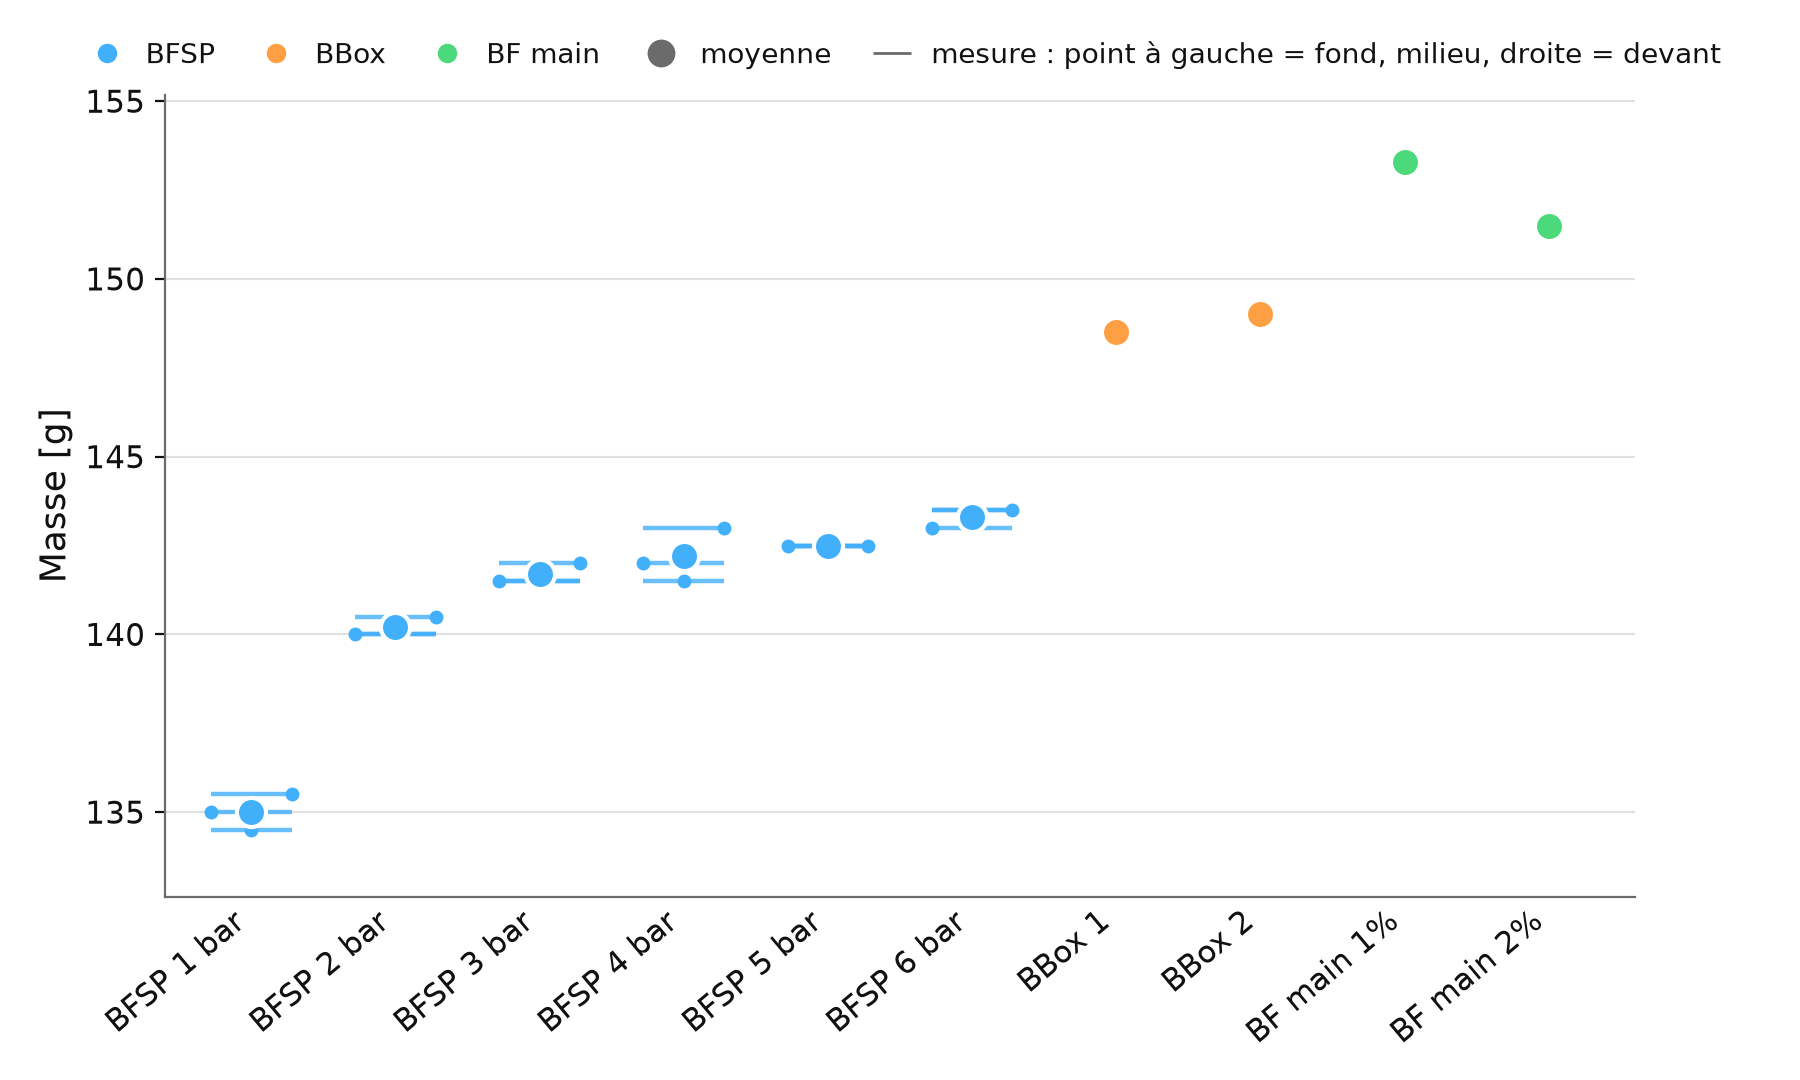
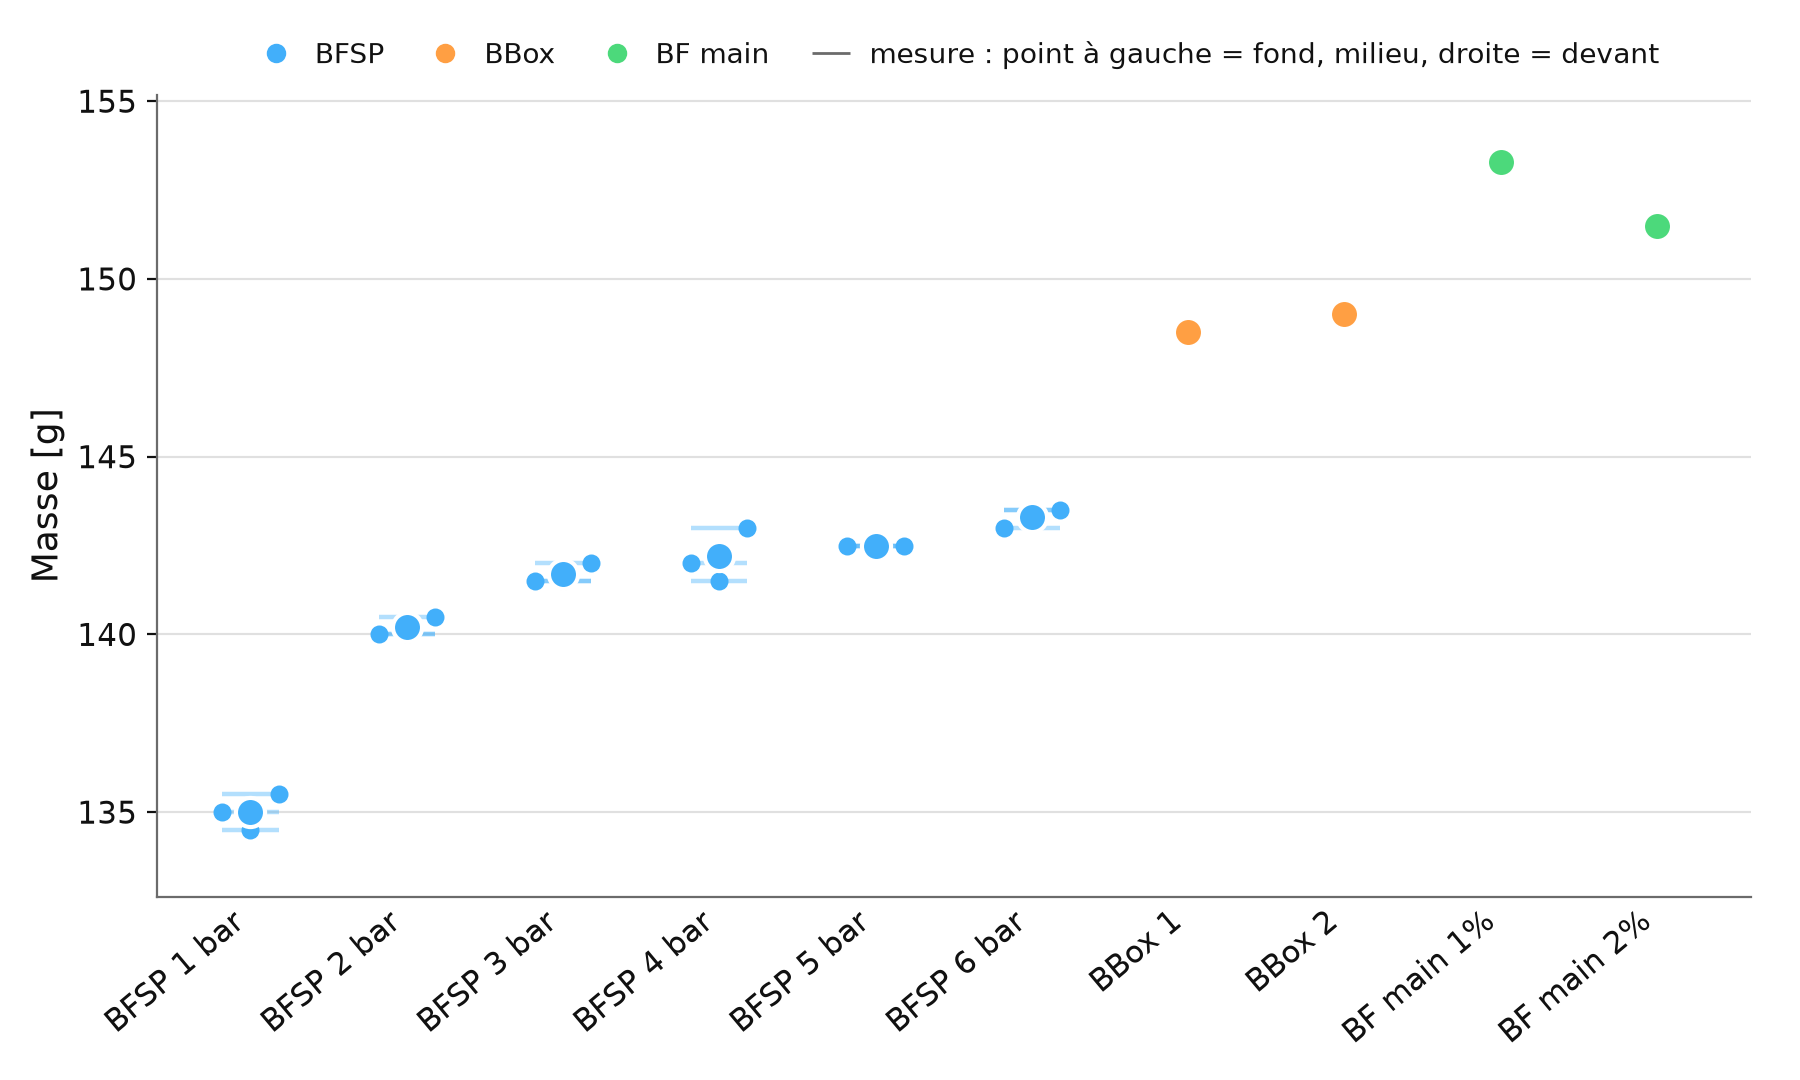
Fainter shorter lines, bigger dots, drop moyenne legend entry

diff --git a/index.html b/index.html
@@ -91,7 +91,7 @@
     <!-- Idealised force-displacement curves for pressures 1-6 bar (scripts/plot_theory.py) -->
     <section class="centered">
       <figure>
-        <img src="figures/courbes_theoriques_dark.png?v=2" alt="Courbes force-déplacement idéalisées pour des pressions de 1 à 6 bar : chaque courbe monte jusqu'à un maximum puis redescend, le maximum augmente avec la pression en se saturant.">
+        <img src="figures/courbes_theoriques_dark.png?v=3" alt="Courbes force-déplacement idéalisées pour des pressions de 1 à 6 bar : chaque courbe monte jusqu'à un maximum puis redescend, le maximum augmente avec la pression en se saturant.">
       </figure>
       <aside class="notes">
         <p class="fact">Courbes qualitatives, pas des mesures : modèle simplifié (montée, pic F_max, adoucissement jusqu'à un palier). F_max augmente avec la pression et sature ; même forme de courbe pour toutes les pressions.</p>
@@ -167,7 +167,7 @@
     <section>
       <section class="centered">
         <figure>
-          <img src="figures/masse_dark.png?v=2" alt="Nuage de points de la masse en grammes par échantillon : BFSP 1 à 6 bar de 135 à 143 g, BBox 1 et 2 vers 149 g, BF main 1 % et 2 % vers 152 g.">
+          <img src="figures/masse_dark.png?v=3" alt="Nuage de points de la masse en grammes par échantillon : BFSP 1 à 6 bar de 135 à 143 g, BBox 1 et 2 vers 149 g, BF main 1 % et 2 % vers 152 g.">
         </figure>
         <aside class="notes"><p>[...]</p></aside>
       </section>
@@ -244,7 +244,7 @@
     <section>
       <section class="centered">
         <figure>
-          <img src="figures/permeabilite_dark.png?v=2" alt="Nuage de points de la perméabilité par échantillon : BFSP de 310 à 193, BBox 180 et 210, BF main 149,5 et 235,5.">
+          <img src="figures/permeabilite_dark.png?v=3" alt="Nuage de points de la perméabilité par échantillon : BFSP de 310 à 193, BBox 180 et 210, BF main 149,5 et 235,5.">
         </figure>
         <aside class="notes"><p>[...]</p></aside>
       </section>
@@ -322,8 +322,8 @@
       <section class="centered">
         <!-- first image fades out when the BFSP-only plot (own y axis) fades in -->
         <div class="r-stack">
-          <img class="fragment fade-out" data-fragment-index="0" src="figures/cisaillement_dark.png?v=2" alt="Nuage de points de la force maximale en newtons par échantillon : BFSP de 673 à 1161, BBox 411 et 431, BF main 1834 et 5226.">
-          <img class="fragment" data-fragment-index="0" src="figures/cisaillement_bfsp_dark.png?v=2" alt="Même nuage de points, limité à BFSP 1 à 6 bar, avec un axe vertical plus resserré.">
+          <img class="fragment fade-out" data-fragment-index="0" src="figures/cisaillement_dark.png?v=3" alt="Nuage de points de la force maximale en newtons par échantillon : BFSP de 673 à 1161, BBox 411 et 431, BF main 1834 et 5226.">
+          <img class="fragment" data-fragment-index="0" src="figures/cisaillement_bfsp_dark.png?v=3" alt="Même nuage de points, limité à BFSP 1 à 6 bar, avec un axe vertical plus resserré.">
         </div>
         <aside class="notes"><p>[...]</p></aside>
       </section>

diff --git a/scripts/plot_scatter.py b/scripts/plot_scatter.py
@@ -29,7 +29,7 @@ PLOTS = [
     ("cisaillement", "tbl-3", r"$F_{max}$ [N]", None),
     ("cisaillement_bfsp", "tbl-3", r"$F_{max}$ [N]", {"BFSP"}),
 ]
-HALF = 0.28
+HALF = 0.18
 COLORS = {"BFSP": "#42affa", "BBox": "#ff9f43", "BF main": "#4cd97b"}
 THEMES = {
     "dark": dict(bg="#000000", fg="#ffffff", muted="#898781", grid=(1, 1, 1, 0.12)),
@@ -72,9 +72,9 @@ for out_name, table_id, label, keep in PLOTS:
                 # one short horizontal line per measurement; the dot sits on its left
                 # (fond), middle (milieu) or right (devant) end
                 for dot_x, v in zip((x - HALF, x, x + HALF), vals):
-                    ax.hlines(v, x - HALF, x + HALF, color=col, linewidth=1.6, alpha=0.8,
+                    ax.hlines(v, x - HALF, x + HALF, color=col, linewidth=1.6, alpha=0.4,
                               zorder=3)
-                    ax.scatter(dot_x, v, s=16, color=col, zorder=4)
+                    ax.scatter(dot_x, v, s=30, color=col, zorder=4)
             ax.scatter(x, mean, s=110, color=col, edgecolor=c["bg"], linewidth=1.5, zorder=5)
         ax.set_xticks(range(len(pts)), [n for n, _ in pts], rotation=40, ha="right",
                       color=c["fg"], fontsize=11)
@@ -91,9 +91,7 @@ for out_name, table_id, label, keep in PLOTS:
         ax.margins(y=0.1)
         handles = [Line2D([], [], marker="o", linestyle="", color=col, label=g)
                    for g, col in COLORS.items() if keep is None or g in keep]
-        handles += [Line2D([], [], marker="o", linestyle="", color=c["muted"], markersize=9,
-                           label="moyenne"),
-                    Line2D([], [], marker="_", markersize=14, linestyle="", color=c["muted"],
+        handles += [Line2D([], [], marker="_", markersize=14, linestyle="", color=c["muted"],
                            label="mesure : point à gauche = fond, milieu, droite = devant")]
         ax.legend(handles=handles, loc="lower center", bbox_to_anchor=(0.5, 1.0),
                   ncol=len(handles), frameon=False, fontsize=10, labelcolor=c["fg"],
